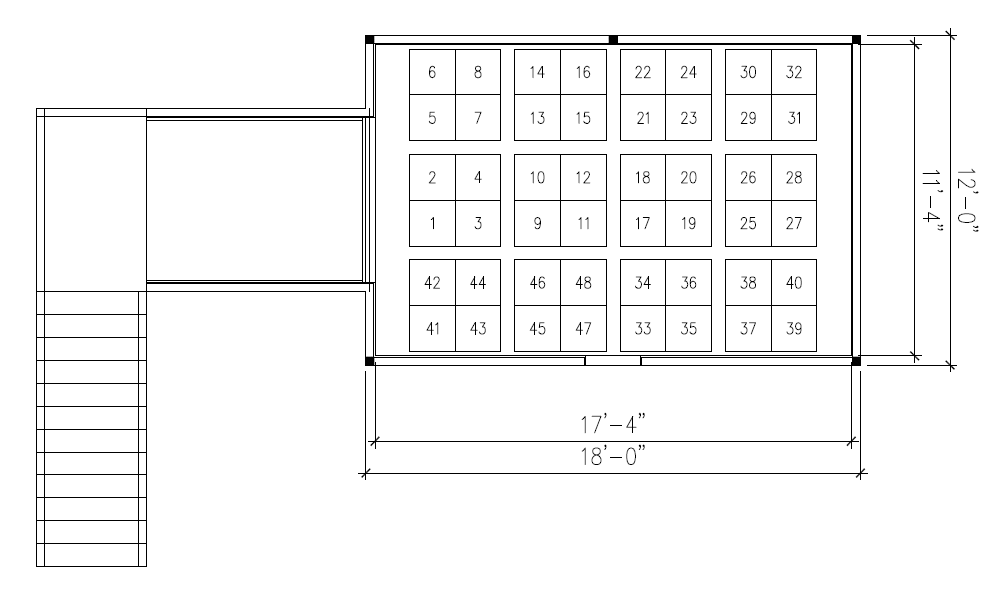
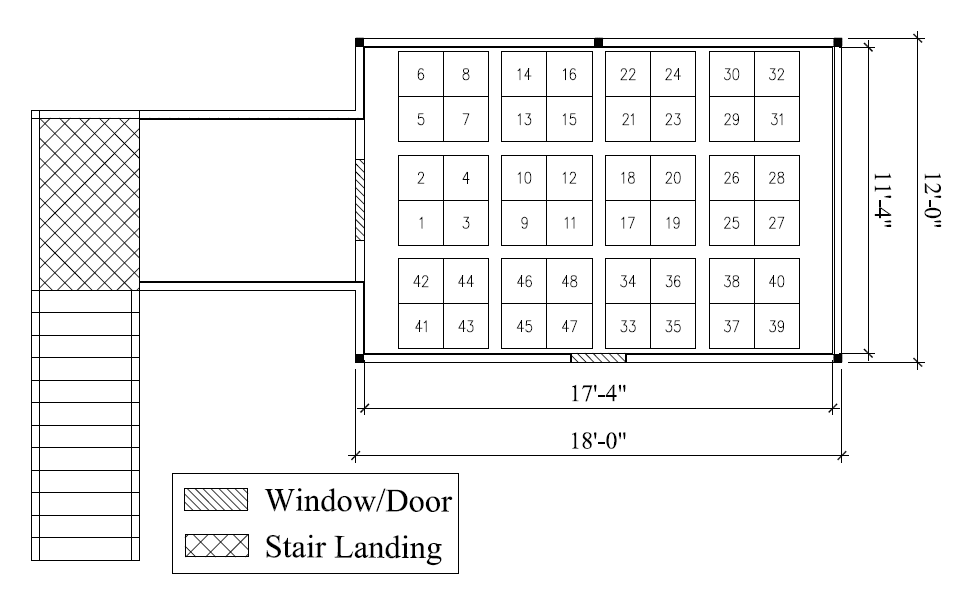
Updated DWGs and tex

diff --git a/Part_I/Report/DHS2013_ADD.tex b/Part_I/Report/DHS2013_ADD.tex
@@ -261,7 +261,7 @@ The compartment featured two openings; one doorway measuring 3~ft by 6~ft 8~in. 
 
 \begin{figure}[!ht]
 	\centering
-	\includegraphics[width=\columnwidth]{Figures/Water_Distribution/ADDtopdownviewprint}
+	\includegraphics[width=\columnwidth]{Figures/Water_Distribution/ADDtopdownviewtext}
 	\caption[ADD Plan View]{ADD Plan View.}
 	\label{fig:ADD_Top_View}
 \end{figure}
